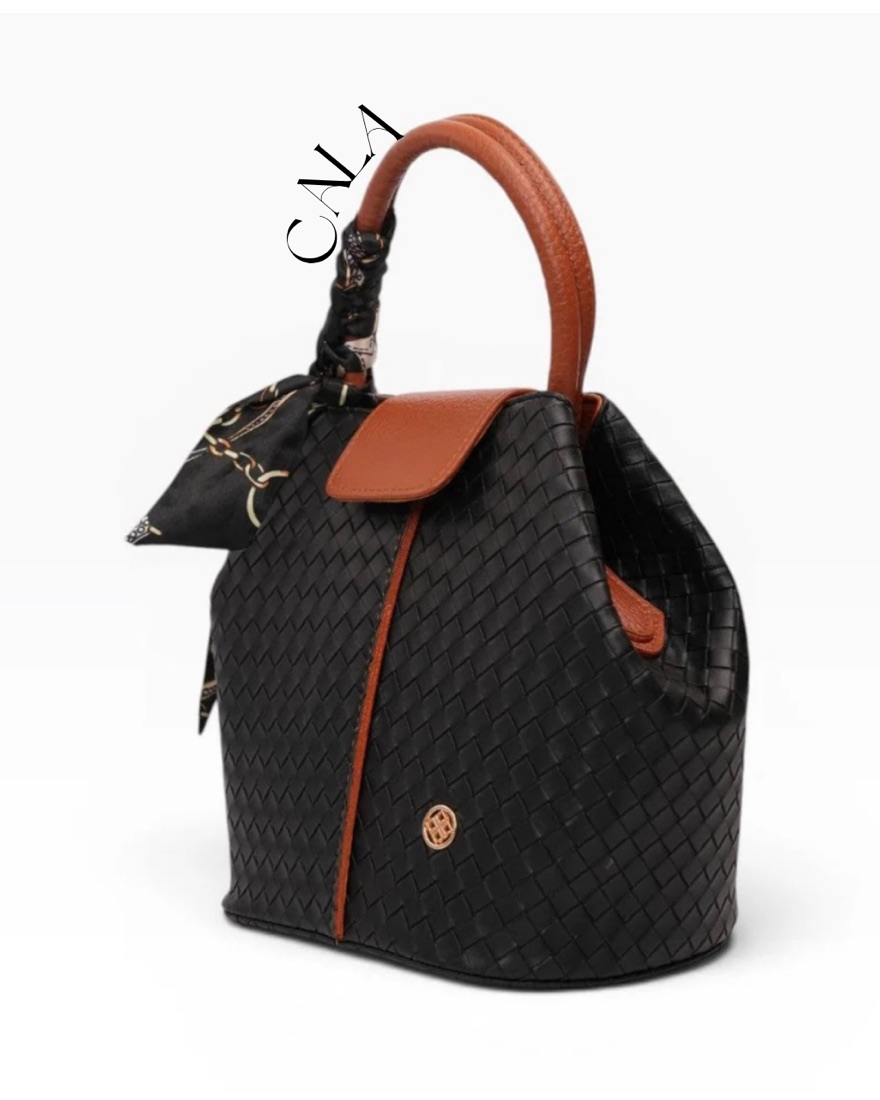
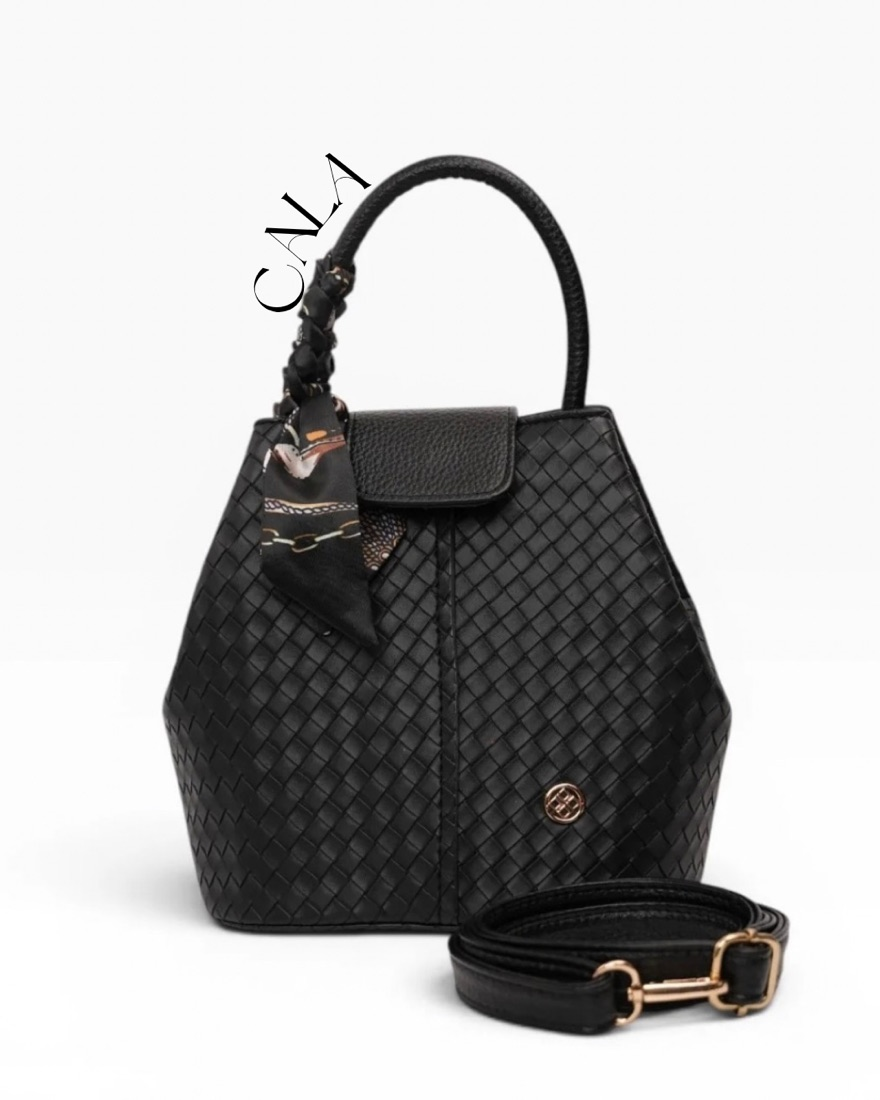
fix: layout de la ficha de producto y separar color Negro y camel
- Galería: miniaturas a la izquierda y foto principal más compacta
  (estilo catálogo clásico), para que no haga falta hacer scroll
  para ver el selector de color ni los botones de compra
- Corrige un bug donde los íconos SVG sin tamaño dentro de los
  botones con texto se renderizaban enormes (.btn svg)
- Quita el modificador --grande de los botones y del selector de
  cantidad en la ficha de producto
- Separa el color 'Negro' (asa y herrajes negros) del nuevo
  'Negro y camel' (asa camel), que estaban mezclados en un solo
  color; agrega muestra de color bicolor (hex2) para reflejarlo
- Ajusta la descripción del material para no afirmar asa camel
  en todos los colores

Changed region(s): [[0.1227, 0.0927, 0.9205, 0.9582], [0.2761, 0.2473, 0.3068, 0.2782]]

diff --git a/productos/cala.html b/productos/cala.html
@@ -4,7 +4,7 @@
     <meta charset="utf-8" />
     <meta name="viewport" content="width=device-width, initial-scale=1" />
     <title>Cartera Cala · Open After</title>
-    <meta name="description" content="Cartera tipo balde en cuero vegano trenzado, con asa superior rígida en cuero camel y correa cruzada desmontable con hebillas doradas. Trae un pañuelo…" />
+    <meta name="description" content="Cartera tipo balde en cuero vegano trenzado, con asa superior rígida y correa cruzada desmontable con hebillas doradas. Trae un pañuelo decorativo anudado…" />
     <meta name="theme-color" content="#FAF7F2" />
     <link rel="canonical" href="https://open-after.com/productos/cala.html" />
     <link rel="icon" href="../img/favicon.svg" type="image/svg+xml" />
@@ -13,7 +13,7 @@
     <meta property="og:type" content="product" />
     <meta property="og:site_name" content="Open After" />
     <meta property="og:title" content="Cartera Cala · Open After" />
-    <meta property="og:description" content="Cartera tipo balde en cuero vegano trenzado, con asa superior rígida en cuero camel y correa cruzada desmontable con hebillas doradas. Trae un pañuelo…" />
+    <meta property="og:description" content="Cartera tipo balde en cuero vegano trenzado, con asa superior rígida y correa cruzada desmontable con hebillas doradas. Trae un pañuelo decorativo anudado…" />
     <meta property="og:image" content="https://open-after.com/img/productos/cala-rojo-1.jpg" />
     <meta property="og:url" content="https://open-after.com/productos/cala.html" />
     <meta property="product:price:amount" content="54" />
@@ -37,7 +37,7 @@
       "@context": "https://schema.org",
       "@type": "Product",
       "name": "Cartera Cala",
-      "description": "Cartera tipo balde en cuero vegano trenzado, con asa superior rígida en cuero camel y correa cruzada desmontable con hebillas doradas. Trae un pañuelo…",
+      "description": "Cartera tipo balde en cuero vegano trenzado, con asa superior rígida y correa cruzada desmontable con hebillas doradas. Trae un pañuelo decorativo anudado…",
       "image": [
             "https://open-after.com/img/productos/cala-rojo-1.jpg",
             "https://open-after.com/img/productos/cala-rojo-2.jpg",
@@ -51,6 +51,10 @@
             "https://open-after.com/img/productos/cala-negro-2.jpg",
             "https://open-after.com/img/productos/cala-negro-3.jpg",
             "https://open-after.com/img/productos/cala-negro-4.jpg",
+            "https://open-after.com/img/productos/cala-negro-y-camel-1.jpg",
+            "https://open-after.com/img/productos/cala-negro-y-camel-2.jpg",
+            "https://open-after.com/img/productos/cala-negro-y-camel-3.jpg",
+            "https://open-after.com/img/productos/cala-negro-y-camel-4.jpg",
             "https://open-after.com/img/productos/cala-rosa-1.jpg",
             "https://open-after.com/img/productos/cala-rosa-2.jpg",
             "https://open-after.com/img/productos/cala-rosa-3.jpg",
@@ -61,8 +65,8 @@
             "name": "Vursse"
       },
       "category": "Cartera",
-      "material": "Cuero vegano trenzado con asa y herrajes en cuero camel",
-      "color": "Rojo, Azul marino, Negro, Rosa",
+      "material": "Cuero vegano trenzado; asa en cuero camel (en el mismo tono del cuerpo en la versión Negro)",
+      "color": "Rojo, Azul marino, Negro, Negro y camel, Rosa",
       "offers": {
             "@type": "Offer",
             "url": "https://open-after.com/productos/cala.html",
@@ -85,7 +89,7 @@
       <noscript>
         <div class="contenedor" style="padding-block: var(--space-xl)">
           <h1>Cartera Cala</h1>
-          <p class="lead">Cartera tipo balde en cuero vegano trenzado, con asa superior rígida en cuero camel y correa cruzada desmontable con hebillas doradas. Trae un pañuelo decorativo anudado al asa, a juego con cada color.</p>
+          <p class="lead">Cartera tipo balde en cuero vegano trenzado, con asa superior rígida y correa cruzada desmontable con hebillas doradas. Trae un pañuelo decorativo anudado al asa, a juego con cada color.</p>
           <p>Precio: $54</p>
           <p>Activa JavaScript para ver las fotos y usar el carrito.</p>
         </div>

diff --git a/css/paginas.css b/css/paginas.css
@@ -392,23 +392,33 @@
 }
 
 /* --- Galería --------------------------------------------------------------
-   Foto principal + tira de miniaturas. El zoom se hace moviendo el
-   background-position del propio marco: sin librerías y sin reflow. */
+   Miniaturas a la izquierda y foto principal a la derecha, como en una ficha
+   de catálogo de verdad: así la imagen no necesita ser enorme para lucir, y
+   el conjunto cabe en la pantalla sin hacer scroll. El zoom se hace moviendo
+   el background-position del propio marco: sin librerías y sin reflow. */
 
 .galeria {
   position: sticky;
   top: 6rem;
   display: grid;
+  grid-template-columns: 4.5rem 1fr;
   gap: var(--space-2xs);
+  max-width: 30rem;
+  justify-self: start;
 }
 
 @media (max-width: 60rem) {
   .galeria {
     position: static;
+    grid-template-columns: 1fr;
+    max-width: none;
+    justify-self: stretch;
   }
 }
 
 .galeria__marco {
+  grid-column: 2;
+  grid-row: 1;
   position: relative;
   overflow: hidden;
   background-color: var(--c-shot);
@@ -418,6 +428,12 @@
   aspect-ratio: 4 / 5;
   cursor: zoom-in;
   touch-action: pan-y;
+}
+
+@media (max-width: 60rem) {
+  .galeria__marco {
+    grid-column: 1;
+  }
 }
 
 .galeria__marco img {
@@ -464,14 +480,30 @@
 }
 
 .galeria__miniaturas {
-  display: grid;
-  grid-template-columns: repeat(auto-fill, minmax(4.5rem, 1fr));
-  gap: var(--space-2xs);
+  grid-column: 1;
+  grid-row: 1;
+  display: flex;
+  flex-direction: column;
+  gap: var(--space-3xs);
+  align-self: stretch;
+  overflow-y: auto;
+}
+
+@media (max-width: 60rem) {
+  .galeria__miniaturas {
+    grid-column: 1;
+    grid-row: 2;
+    display: grid;
+    grid-template-columns: repeat(auto-fill, minmax(4.5rem, 1fr));
+    gap: var(--space-2xs);
+    overflow-y: visible;
+  }
 }
 
 .miniatura {
   position: relative;
   overflow: hidden;
+  flex-shrink: 0;
   background-color: var(--c-shot);
   border-radius: var(--radius-shot);
   aspect-ratio: 1;
@@ -511,13 +543,13 @@
 }
 
 .compra__descripcion {
-  margin-top: var(--space-md);
+  margin-top: var(--space-sm);
   color: var(--c-ink-soft);
   max-width: var(--measure);
 }
 
 .campo {
-  margin-top: var(--space-lg);
+  margin-top: var(--space-md);
 }
 
 .campo__etiqueta {
@@ -580,7 +612,7 @@
   display: flex;
   flex-wrap: wrap;
   gap: var(--space-2xs);
-  margin-top: var(--space-lg);
+  margin-top: var(--space-md);
 }
 
 .compra__acciones .btn--primario {
@@ -588,7 +620,7 @@
 }
 
 .compra__aviso {
-  margin-top: var(--space-sm);
+  margin-top: var(--space-xs);
   font-size: var(--text-small);
   color: var(--c-ink-faint);
 }

diff --git a/js/ficha.js b/js/ficha.js
@@ -47,8 +47,14 @@
     if (producto.colores.length <= 1) return "";
 
     const opciones = producto.colores
-      .map(
-        (c) => html`
+      .map((c) => {
+        // Un color con "hex2" es de dos tonos (p. ej. cuerpo negro con asa
+        // camel): la muestra se pinta mitad y mitad en vez de un solo tono.
+        const fondo = c.hex2
+          ? `linear-gradient(135deg, ${c.hex} 50%, ${c.hex2} 50%)`
+          : c.hex;
+
+        return html`
           <button
             class="color-opcion"
             type="button"
@@ -57,13 +63,13 @@
           >
             <span
               class="color-opcion__muestra"
-              style="background-color: ${c.hex}"
+              style="background: ${fondo}"
               aria-hidden="true"
             ></span>
             ${c.nombre}
           </button>
-        `,
-      )
+        `;
+      })
       .join("");
 
     return html`
@@ -135,7 +141,7 @@
 
         <div class="campo">
           <span class="campo__etiqueta" id="etiqueta-cantidad">Cantidad</span>
-          <div class="cantidad cantidad--grande" aria-labelledby="etiqueta-cantidad">
+          <div class="cantidad" aria-labelledby="etiqueta-cantidad">
             <button
               class="cantidad__btn"
               type="button"
@@ -158,7 +164,7 @@
 
         <div class="compra__acciones">
           <button
-            class="btn btn--primario btn--grande"
+            class="btn btn--primario"
             type="button"
             data-agregar
             ${raw(agotado ? "disabled" : "")}
@@ -167,7 +173,7 @@
             ${agotado ? "Agotado" : "Añadir al carrito"}
           </button>
           <a
-            class="btn btn--whatsapp btn--grande"
+            class="btn btn--whatsapp"
             data-consultar
             href="${whatsapp.enlaceProducto(producto, colorElegido)}"
             target="_blank"

diff --git a/js/productos.js b/js/productos.js
@@ -32,13 +32,17 @@ window.OA.productos = Object.freeze([
       { nombre: "Rojo", hex: "#C0392B", fotos: 4 },
       { nombre: "Azul marino", hex: "#1F2A44", fotos: 4 },
       { nombre: "Negro", hex: "#1A1A1A", fotos: 4 },
+      // "hex2" marca un color de dos tonos: la muestra se pinta mitad y
+      // mitad. Este trae el asa y los herrajes en cuero camel.
+      { nombre: "Negro y camel", hex: "#1A1A1A", hex2: "#96603A", fotos: 4 },
       { nombre: "Rosa", hex: "#E7C3C2", fotos: 4 },
     ],
-    material: "Cuero vegano trenzado con asa y herrajes en cuero camel",
+    material:
+      "Cuero vegano trenzado; asa en cuero camel (en el mismo tono del cuerpo en la versión Negro)",
     medidas: "20 × 22 × 14 cm",
     capacidad: "4 L",
     descripcion:
-      "Cartera tipo balde en cuero vegano trenzado, con asa superior rígida en cuero camel y correa cruzada desmontable con hebillas doradas. Trae un pañuelo decorativo anudado al asa, a juego con cada color.",
+      "Cartera tipo balde en cuero vegano trenzado, con asa superior rígida y correa cruzada desmontable con hebillas doradas. Trae un pañuelo decorativo anudado al asa, a juego con cada color.",
     detalles: [
       "Correa cruzada desmontable con hebillas de metal dorado",
       "Cierre superior con solapa magnética",

diff --git a/css/componentes.css b/css/componentes.css
@@ -27,6 +27,12 @@
     opacity var(--dur-fast) linear;
 }
 
+.btn svg {
+  width: 1.1em;
+  height: 1.1em;
+  flex-shrink: 0;
+}
+
 .btn:hover {
   transform: translateY(-1px);
 }
